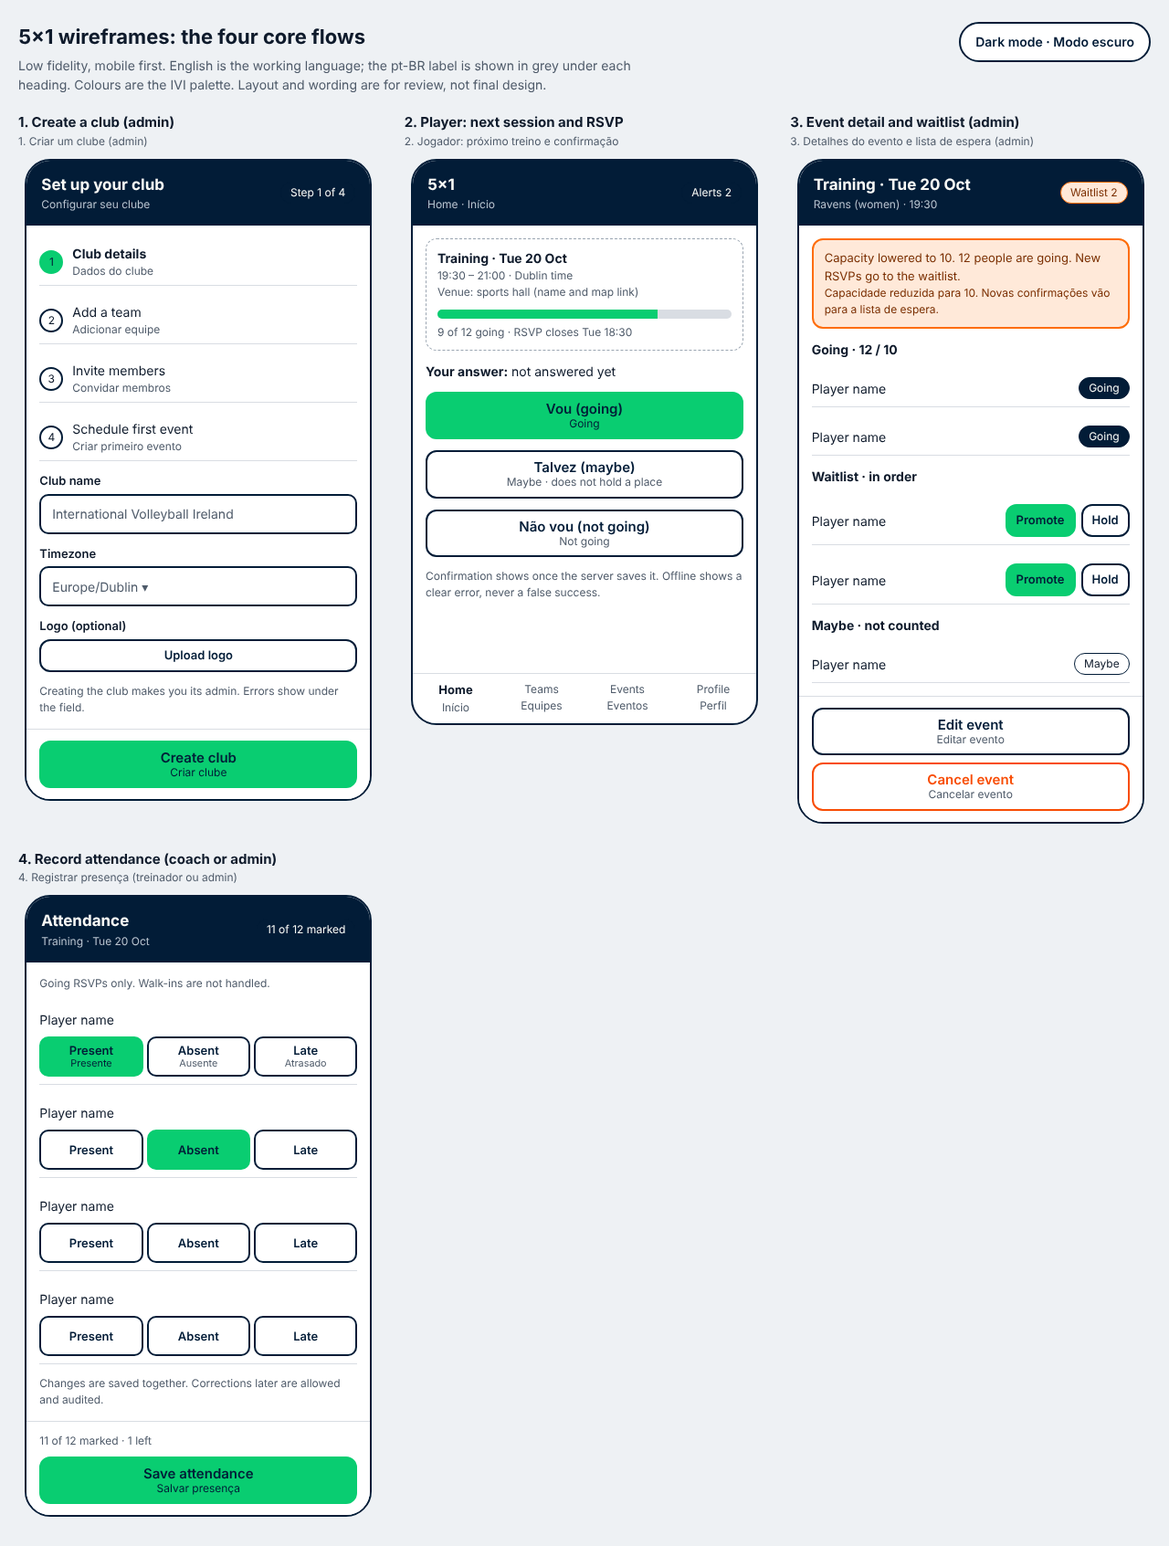
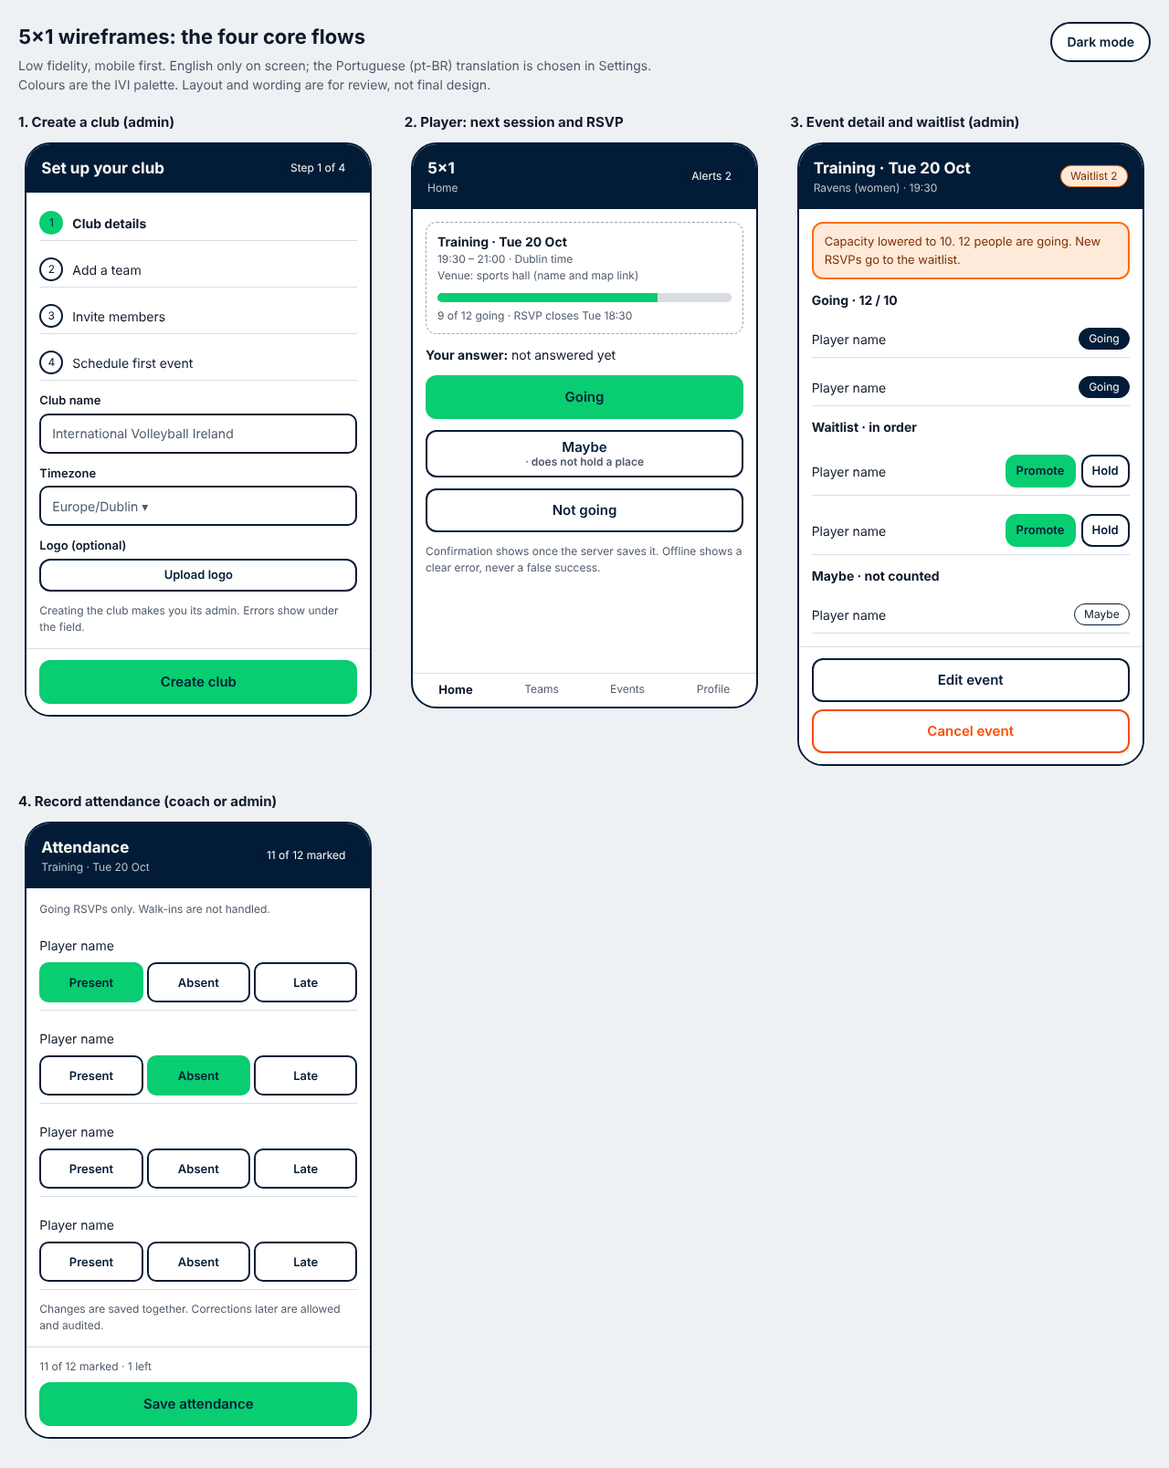
Show English only on screen; pt-BR chosen in Settings
Claude-Session: https://claude.ai/code/session_0182SLdmKrjcwnwCDfp5azGD

diff --git a/docs/internal/wireframes/wireframes.html b/docs/internal/wireframes/wireframes.html
@@ -9,7 +9,6 @@
   --btn-bg:#06233F; --btn-fg:#F8F8F5;
   --primary:#09CD71; --primary-ink:#021C37;
   --warn:#FF8A5C; --warn-border:#F84C04;
-  --accent-orange:#FE6D09;
   --chip-done-bg:#F8F8F5; --chip-done-fg:#021C37;
   --wait-bg:#3A1E0C; --wait-ink:#FFB27F; --wait-border:#FE6D09;
   --input-bg:#021C37; --foot-bg:#06233F; --box-border:#4D6F93;
@@ -22,7 +21,6 @@
   --btn-bg:#FFFFFF; --btn-fg:#021C37;
   --primary:#09CD71; --primary-ink:#021C37;
   --warn:#F84C04; --warn-border:#F84C04;
-  --accent-orange:#FE6D09;
   --chip-done-bg:#021C37; --chip-done-fg:#F8F8F5;
   --wait-bg:#FFE9D9; --wait-ink:#7A2E00; --wait-border:#FE6D09;
   --input-bg:#FFFFFF; --foot-bg:#FFFFFF; --box-border:#9AA5B1;
@@ -41,7 +39,6 @@ header{display:flex;flex-wrap:wrap;justify-content:space-between;align-items:fle
 .cell{min-width:0;display:flex;flex-direction:column;align-items:center;gap:10px}
 .cap{align-self:stretch;max-width:380px;width:100%}
 .cap strong{display:block;font-size:15px}
-.pt{display:block;color:var(--mute);font-size:12px}
 .phone{width:100%;max-width:380px;background:var(--card);border:2px solid var(--border-strong);border-radius:28px;overflow:hidden;min-width:0;display:flex;flex-direction:column;min-height:620px}
 .top{background:var(--top);color:var(--top-fg);padding:14px 16px;display:flex;justify-content:space-between;align-items:center;gap:8px}
 .top small{display:block;color:var(--top-mute);font-size:12px}
@@ -51,9 +48,7 @@ header{display:flex;flex-wrap:wrap;justify-content:space-between;align-items:fle
 .field span{font-size:13px;font-weight:600}
 .input{border:2px solid var(--border);border-radius:10px;height:44px;display:flex;align-items:center;padding:0 12px;color:var(--mute);background:var(--input-bg)}
 .btn{min-height:48px;border-radius:12px;border:2px solid var(--border);background:var(--btn-bg);color:var(--btn-fg);font-family:inherit;font-weight:600;font-size:15px;line-height:1.2;padding:8px 12px;width:100%;cursor:pointer;text-align:center;display:flex;flex-direction:column;justify-content:center}
-.btn small{font-weight:400;font-size:12px;color:var(--mute)}
 .btn.primary{background:var(--primary);border-color:var(--primary);color:var(--primary-ink)}
-.btn.primary small{color:var(--primary-ink)}
 .btn.warn{border-color:var(--warn-border);color:var(--warn)}
 .btn.sm{min-height:36px;width:auto;padding:4px 10px;font-size:13px}
 .row{display:flex;justify-content:space-between;align-items:center;gap:8px;padding:8px 0;border-bottom:1px solid var(--line);min-width:0}
@@ -65,13 +60,10 @@ header{display:flex;flex-wrap:wrap;justify-content:space-between;align-items:fle
 .fill{height:100%;background:var(--fill)}
 .seg{display:grid;grid-template-columns:repeat(3,1fr);gap:4px;min-width:0}
 .seg button{min-height:44px;border:2px solid var(--border);background:var(--btn-bg);color:var(--btn-fg);border-radius:10px;font-family:inherit;font-weight:600;font-size:13px;padding:2px;cursor:pointer}
-.seg button small{font-weight:400;color:var(--mute)}
 .seg button.on{background:var(--primary);border-color:var(--primary);color:var(--primary-ink)}
-.seg button.on small{color:var(--primary-ink)}
 .nav{display:grid;grid-template-columns:repeat(4,1fr);border-top:1px solid var(--line);text-align:center;font-size:12px;padding:8px 0;color:var(--mute)}
 .nav b{display:block;color:var(--fg);font-size:13px}
 .banner{border:2px solid var(--wait-border);background:var(--wait-bg);color:var(--wait-ink);border-radius:12px;padding:10px 12px;font-size:13px}
-.banner .legend{color:var(--wait-ink)}
 .foot{border-top:1px solid var(--line);padding:12px 14px;background:var(--foot-bg);display:flex;flex-direction:column;gap:8px;margin-top:auto}
 .step{display:flex;gap:10px;align-items:center;padding:6px 0;border-bottom:1px solid var(--line)}
 .step i{font-style:normal;width:26px;height:26px;border-radius:50%;border:2px solid var(--border);display:inline-flex;align-items:center;justify-content:center;font-size:12px;flex:none}
@@ -83,23 +75,23 @@ header{display:flex;flex-wrap:wrap;justify-content:space-between;align-items:fle
 <header>
   <div>
     <h1>5x1 wireframes: the four core flows</h1>
-    <p class="intro">Low fidelity, mobile first. English is the working language; the pt-BR label is shown in grey under each heading. Colours are the IVI palette. Layout and wording are for review, not final design.</p>
+    <p class="intro">Low fidelity, mobile first. English only on screen; the Portuguese (pt-BR) translation is chosen in Settings. Colours are the IVI palette. Layout and wording are for review, not final design.</p>
   </div>
-  <button class="toggle" id="theme-toggle" type="button" aria-pressed="false">Light mode · Modo claro</button>
+  <button class="toggle" id="theme-toggle" type="button" aria-pressed="false">Light mode</button>
 </header>
 
 <main class="grid">
 
   <!-- 1. Club setup -->
   <section class="cell" aria-label="Flow 1: club setup">
-    <div class="cap"><strong>1. Create a club (admin)</strong><span class="pt">1. Criar um clube (admin)</span></div>
+    <div class="cap"><strong>1. Create a club (admin)</strong></div>
     <div class="phone">
-      <div class="top"><div><h2>Set up your club</h2><small>Configurar seu clube</small></div><span class="chip">Step 1 of 4</span></div>
+      <div class="top"><div><h2>Set up your club</h2></div><span class="chip">Step 1 of 4</span></div>
       <div class="body">
-        <div class="step on"><i>1</i><div><b>Club details</b><small class="pt">Dados do clube</small></div></div>
-        <div class="step"><i>2</i><div>Add a team <small class="pt">Adicionar equipe</small></div></div>
-        <div class="step"><i>3</i><div>Invite members <small class="pt">Convidar membros</small></div></div>
-        <div class="step"><i>4</i><div>Schedule first event <small class="pt">Criar primeiro evento</small></div></div>
+        <div class="step on"><i>1</i><div><b>Club details</b></div></div>
+        <div class="step"><i>2</i><div>Add a team</div></div>
+        <div class="step"><i>3</i><div>Invite members</div></div>
+        <div class="step"><i>4</i><div>Schedule first event</div></div>
 
         <div class="field"><span>Club name</span><div class="input">International Volleyball Ireland</div></div>
         <div class="field"><span>Timezone</span><div class="input">Europe/Dublin ▾</div></div>
@@ -107,16 +99,16 @@ header{display:flex;flex-wrap:wrap;justify-content:space-between;align-items:fle
         <p class="legend">Creating the club makes you its admin. Errors show under the field.</p>
       </div>
       <div class="foot">
-        <button class="btn primary" type="button">Create club<small>Criar clube</small></button>
+        <button class="btn primary" type="button">Create club</button>
       </div>
     </div>
   </section>
 
   <!-- 2. Player home and RSVP -->
   <section class="cell" aria-label="Flow 2: player home and RSVP">
-    <div class="cap"><strong>2. Player: next session and RSVP</strong><span class="pt">2. Jogador: próximo treino e confirmação</span></div>
+    <div class="cap"><strong>2. Player: next session and RSVP</strong></div>
     <div class="phone">
-      <div class="top"><div><h2>5x1</h2><small>Home · Início</small></div><span class="chip">Alerts 2</span></div>
+      <div class="top"><div><h2>5x1</h2><small>Home</small></div><span class="chip">Alerts 2</span></div>
       <div class="body">
         <div class="box">
           <b>Training · Tue 20 Oct</b>
@@ -126,22 +118,22 @@ header{display:flex;flex-wrap:wrap;justify-content:space-between;align-items:fle
           <p class="legend" style="margin-top:6px">9 of 12 going · RSVP closes Tue 18:30</p>
         </div>
         <p><b>Your answer:</b> not answered yet</p>
-        <button class="btn primary" type="button">Vou (going)<small>Going</small></button>
-        <button class="btn" type="button">Talvez (maybe)<small>Maybe · does not hold a place</small></button>
-        <button class="btn" type="button">Não vou (not going)<small>Not going</small></button>
+        <button class="btn primary" type="button">Going</button>
+        <button class="btn" type="button">Maybe <span class="legend">· does not hold a place</span></button>
+        <button class="btn" type="button">Not going</button>
         <p class="legend">Confirmation shows once the server saves it. Offline shows a clear error, never a false success.</p>
       </div>
-      <div class="nav"><div><b>Home</b>Início</div><div>Teams<br>Equipes</div><div>Events<br>Eventos</div><div>Profile<br>Perfil</div></div>
+      <div class="nav"><div><b>Home</b></div><div>Teams</div><div>Events</div><div>Profile</div></div>
     </div>
   </section>
 
   <!-- 3. Event detail (admin) -->
   <section class="cell" aria-label="Flow 3: event detail and waitlist (admin)">
-    <div class="cap"><strong>3. Event detail and waitlist (admin)</strong><span class="pt">3. Detalhes do evento e lista de espera (admin)</span></div>
+    <div class="cap"><strong>3. Event detail and waitlist (admin)</strong></div>
     <div class="phone">
       <div class="top"><div><h2>Training · Tue 20 Oct</h2><small>Ravens (women) · 19:30</small></div><span class="chip wait">Waitlist 2</span></div>
       <div class="body">
-        <div class="banner" role="status">Capacity lowered to 10. 12 people are going. New RSVPs go to the waitlist.<br><span class="legend">Capacidade reduzida para 10. Novas confirmações vão para a lista de espera.</span></div>
+        <div class="banner" role="status">Capacity lowered to 10. 12 people are going. New RSVPs go to the waitlist.</div>
         <b>Going · 12 / 10</b>
         <div class="row"><span class="name">Player name</span><span class="chip done">Going</span></div>
         <div class="row"><span class="name">Player name</span><span class="chip done">Going</span></div>
@@ -152,20 +144,20 @@ header{display:flex;flex-wrap:wrap;justify-content:space-between;align-items:fle
         <div class="row"><span class="name">Player name</span><span class="chip">Maybe</span></div>
       </div>
       <div class="foot">
-        <button class="btn" type="button">Edit event<small>Editar evento</small></button>
-        <button class="btn warn" type="button">Cancel event<small>Cancelar evento</small></button>
+        <button class="btn" type="button">Edit event</button>
+        <button class="btn warn" type="button">Cancel event</button>
       </div>
     </div>
   </section>
 
   <!-- 4. Attendance -->
   <section class="cell" aria-label="Flow 4: attendance">
-    <div class="cap"><strong>4. Record attendance (coach or admin)</strong><span class="pt">4. Registrar presença (treinador ou admin)</span></div>
+    <div class="cap"><strong>4. Record attendance (coach or admin)</strong></div>
     <div class="phone">
       <div class="top"><div><h2>Attendance</h2><small>Training · Tue 20 Oct</small></div><span class="chip">11 of 12 marked</span></div>
       <div class="body">
         <p class="legend">Going RSVPs only. Walk-ins are not handled.</p>
-        <div class="row" style="flex-direction:column;align-items:stretch"><span class="name">Player name</span><div class="seg"><button class="on" type="button">Present<br><small>Presente</small></button><button type="button">Absent<br><small>Ausente</small></button><button type="button">Late<br><small>Atrasado</small></button></div></div>
+        <div class="row" style="flex-direction:column;align-items:stretch"><span class="name">Player name</span><div class="seg"><button class="on" type="button">Present</button><button type="button">Absent</button><button type="button">Late</button></div></div>
         <div class="row" style="flex-direction:column;align-items:stretch"><span class="name">Player name</span><div class="seg"><button type="button">Present</button><button class="on" type="button">Absent</button><button type="button">Late</button></div></div>
         <div class="row" style="flex-direction:column;align-items:stretch"><span class="name">Player name</span><div class="seg"><button type="button">Present</button><button type="button">Absent</button><button type="button">Late</button></div></div>
         <div class="row" style="flex-direction:column;align-items:stretch"><span class="name">Player name</span><div class="seg"><button type="button">Present</button><button type="button">Absent</button><button type="button">Late</button></div></div>
@@ -173,7 +165,7 @@ header{display:flex;flex-wrap:wrap;justify-content:space-between;align-items:fle
       </div>
       <div class="foot">
         <p class="legend">11 of 12 marked · 1 left</p>
-        <button class="btn primary" type="button">Save attendance<small>Salvar presença</small></button>
+        <button class="btn primary" type="button">Save attendance</button>
       </div>
     </div>
   </section>
@@ -189,7 +181,7 @@ header{display:flex;flex-wrap:wrap;justify-content:space-between;align-items:fle
     root.setAttribute('data-theme', theme);
     var light = theme === 'light';
     btn.setAttribute('aria-pressed', String(light));
-    btn.textContent = light ? 'Dark mode · Modo escuro' : 'Light mode · Modo claro';
+    btn.textContent = light ? 'Dark mode' : 'Light mode';
   }
   var saved = null;
   try { saved = localStorage.getItem(KEY); } catch (e) {}

diff --git a/docs/product-spec.md b/docs/product-spec.md
@@ -12,7 +12,7 @@ v1 goals:
 
 - Run IVI end to end: teams, roster, events, RSVP and attendance.
 - Work in the browser and on phones from one codebase (installable PWA).
-- Ship in English and pt-BR at launch. English is the default.
+- Ship in English and pt-BR at launch. English is shown on screen; pt-BR is chosen in Settings.
 
 Success targets (confirmed):
 
@@ -51,7 +51,7 @@ One person can hold several roles: a coach can also play, and an admin can also 
 
 **In scope**
 
-- Accounts: sign up, log in, reset password, pt-BR and English UI.
+- Accounts: sign up, log in, reset password, in English; pt-BR available in Settings.
 - Club: create a club with a name, logo and timezone; invite by expiring or revocable link; approve join requests.
 - Teams: create teams with a division and a gender category; assign members to one or more teams.
 - Events: title, type (match, training, social), start and end, venue as text with an optional map link, optional capacity (blank means no limit), and RSVP deadline (pre-filled to 2 hours before the start). Events can be club-wide or for one team. Social events can also be set to `mixed`.
@@ -80,7 +80,7 @@ Each requirement has an ID and is traced to flows, screens, tables and tests in 
 | ID | Module | Requirement |
 | --- | --- | --- |
 | AUTH-01 | Accounts | Sign up, log in and reset password by email, without revealing which emails have accounts. |
-| I18N-01 | Language | English default; full pt-BR; the choice is saved to the profile. |
+| I18N-01 | Language | English on screen; full pt-BR chosen in Settings; the choice is saved to the profile. |
 | CLUB-01 | Club | Create a club with a name, logo and timezone; the creator becomes admin. |
 | CLUB-02 | Club | Invite links can be expired or revoked; join requests need admin approval. |
 | TEAM-01 | Teams | Several teams per club, each with a division and a gender category. |
@@ -119,7 +119,7 @@ For now, the basics of GDPR apply: a privacy notice, data export and deletion re
 
 ## Internationalisation
 
-Every user-facing string lives in a message file. English is the default. For a first visit, a saved language preference wins; otherwise English is used, and the browser language is not used silently. pt-BR is a complete, first-class language from launch and is always one tap away. Dates and times follow the club's timezone and the chosen language.
+Every user-facing string lives in a message file. English is the default. For a first visit, a saved language preference wins; otherwise English is used, and the browser language is not used silently. pt-BR is a complete, first-class translation from launch, chosen in Settings and not shown as labels on screens. Dates and times follow the club's timezone and the chosen language.
 
 ## Non-functional requirements
 
@@ -171,7 +171,7 @@ Seven phases, each ending at a gate. Dates are proposals for a part-time build.
 | 23 | Waitlisted or maybe RSVPs in attendance | Must be promoted to going before being marked |
 | 24 | Cancelled events | Attendance is read-only |
 | — | Product name | 5x1 |
-| — | Default language | English (changed on 14 Oct 2026 from pt-BR); pt-BR second |
+| — | Language on screen | English only; pt-BR chosen in Settings (14 Oct 2026: pt-BR labels removed from screens) |
 | — | Success targets | Confirmed, with definitions in the testing document |
 | — | Guardian access | v2 |
 | — | Platform | Responsive web and PWA first; native apps after v1 |

diff --git a/docs/spec/04-DESIGN.md b/docs/spec/04-DESIGN.md
@@ -5,7 +5,7 @@ Version 0.1 | Status: Design direction proposed; no mockups approved
 Mobile-first sports utility, simple enough for a coach in a gym and a player responding while walking. Fast task completion over decorative complexity. Do not assume colors or logo are approved for 5x1; first IVI club branding can use its own crest/colors independently of platform brand.
 
 ## Information architecture
-- Public: landing, language switch, login/signup/reset, invite redemption.
+- Public: landing, login/signup/reset, invite redemption (English only; no language switch).
 - Player: Home/upcoming, My Teams, Event Detail + RSVP, Notifications, Profile/settings.
 - Coach: Player navigation plus Team Events, Attendance and Team Roster.
 - Admin: Club Overview, Teams, Members/Approvals, Invitations, Events, Attendance, Club Settings.
@@ -13,7 +13,7 @@ Mobile-first sports utility, simple enough for a coach in a gym and a player res
 ## Screen inventory
 | ID | Screen | Main elements |
 | --- | --- | --- |
-| UI-01 | Landing | headline, feature explanation, login, join, language toggle |
+| UI-01 | Landing | headline, feature explanation, login, join |
 | UI-02 | Auth | signup/login/reset, inline feedback |
 | UI-03 | Club setup | club name, timezone, optional logo, steps |
 | UI-04 | Member approvals | pending members, approve/decline |
@@ -41,13 +41,13 @@ Use semantic HTML, WCAG 2.2 AA as release target, keyboard traversal and focus v
 1. Sitemap and site navigation model.
 2. Low-fidelity wireframes of F01–F04 on phone, tablet and desktop.
 3. Design tokens (colors, spacing, type, elevation, breakpoints) and club-level logo/avatar rules.
-4. High-fidelity screens with pt-BR and English content (account for text expansion).
+4. High-fidelity screens in English; pt-BR translation checked for text expansion, not shown as labels.
 5. Clickable prototype and five-user usability test including player + coach + admin tasks.
 6. Developer handoff: component variants, states, responsive measurements and accessible labels.
 
 ## Low-fidelity wireframes (v0.1, for review)
 Source and captures live in `docs/internal/wireframes/`:
-- `wireframes.html`: the four core flows, phone width, English first with pt-BR labels beneath. Dark mode is the default; a header button switches to light.
+- `wireframes.html`: the four core flows, phone width, English only on screen. Dark mode is the default; a header button switches to light.
 - `wireframes-dark.png` and `wireframes-light.png`: captures of the two themes at desktop width.
 
 | Flow | Screen in the wireframes | Maps to |

diff --git a/docs/spec/00-README.md b/docs/spec/00-README.md
@@ -7,7 +7,7 @@ Version: 0.1 | Date: 2026-10-14 | Status: Draft for approval
 ## Decisions already supplied
 - Product: **5x1**.
 - First pilot: **IVI**, approximately six men's/women's teams participating in Divisions 2–4; actual team names/assignments must be configured and confirmed.
-- Language: **English default**, pt-BR available as a complete first-class language from launch. For a user's first visit, use saved preference if present; otherwise default to English (no silent browser override). pt-BR remains available through a prominent switch. (Changed from pt-BR default on 14 Oct 2026.)
+- Language: **English on screen**. pt-BR is a complete translation from launch, chosen in Settings and not shown as labels on screens. Saved preference per profile; first visit uses English (no silent browser override). (Changed 14 Oct 2026: pt-BR labels removed from screens; switch moved to Settings.)
 - First release: responsive web + installable PWA; native apps after stable v1.
 - Roles: club admin, coach and player in v1; guardians in v2.
 - v1 free, no payments, chat, scoring or monetization.

diff --git a/docs/spec/01-PRD.md b/docs/spec/01-PRD.md
@@ -18,7 +18,7 @@ One real club, IVI, can create its club, manage multiple teams and memberships, 
 | ID | Requirement | Acceptance criterion |
 | --- | --- | --- |
 | AUTH-01 | Email/password signup, login, reset | Reset works without account enumeration; verified auth session required for protected data |
-| I18N-01 | English default and full pt-BR translation | All first-release screens, errors, emails if used, accessibility labels localized |
+| I18N-01 | English on screen; full pt-BR translation chosen in Settings | No pt-BR labels on screens; every first-release string has an English value; pt-BR covers all screens, errors, emails if used and accessibility labels; choice saved to profile |
 | CLUB-01 | Create club with name, logo, timezone | Valid data persisted, creator becomes admin |
 | CLUB-02 | Expiring/revocable invite and request approval | Expired/revoked token denied; requests cannot self-approve |
 | TEAM-01 | Multiple teams per club | Club admin creates/edits team with `division` and `gender_category`; six IVI examples supported |

diff --git a/docs/spec/03-FLOWS.md b/docs/spec/03-FLOWS.md
@@ -2,7 +2,7 @@
 Version 0.1
 
 ## Flow F01 — Club creation
-1. New user chooses en or pt-BR, signs up and verifies email if enabled.
+1. New user signs up in English and verifies email if enabled. Language is changed later in Settings.
 2. User chooses `Criar clube / Create club`.
 3. Enters club name, IANA timezone, optional image; validates.
 4. Server creates club and active admin membership transactionally.
@@ -55,7 +55,7 @@ flowchart TD
 
 ## Flow F05 — Language
 1. Default anonymous locale en.
-2. User can switch to pt-BR on all screens including before signup.
+2. User switches to pt-BR only in Settings. Public screens show English only, with no language switch.
 3. Save preference to profile after signup; honor preference on later devices.
 4. Translate date/number labels using selected locale; use club timezone for event clock.
 

diff --git a/docs/spec/07-TESTING.md b/docs/spec/07-TESTING.md
@@ -20,7 +20,7 @@ Version 0.1
 | T-07 | User belonging to club A requests club B records | Denied at RLS layer |
 | T-08 | Revoked/expired invitation | Rejected without membership mutation |
 | T-09 | Daylight savings in Europe/Dublin | Correct UTC storage + local display |
-| T-10 | Switch locale | All pages, labels, errors in pt-BR / en |
+| T-10 | Switch locale in Settings | All pages, labels, errors in pt-BR / en; no language switch on public screens |
 | T-11 | No network during RSVP | Clear failure; no false confirmation |
 | T-12 | Remove membership with historical attendance | Privacy rules respected; admin reports consistent |
 | T-13 | Keyboard + screen reader | Core flows operable; button states announced |
